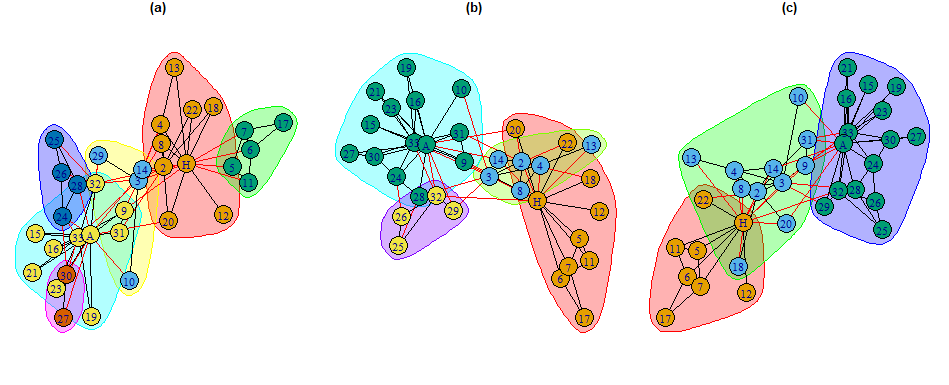
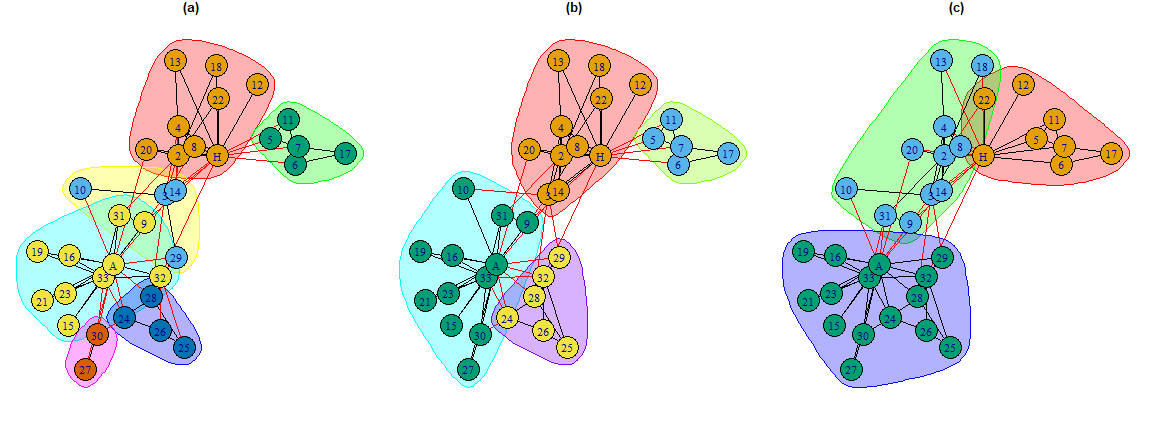
working paper

diff --git a/utils/joss_paper/paper.md b/utils/joss_paper/paper.md
@@ -1,5 +1,5 @@
 ---
-title: 'ig.degree.betweenness: A Community Detection Algorithm Leveraging Degree Centrality'
+title: 'ig.degree.betweenness: An R Package for Community Detection Using Degree Centrality and Betweenness'
 author: "Benjamin Smith"
 tags:
   - R
@@ -21,7 +21,7 @@ affiliations:
     index: 1
   - name: "UHN's Princess Margaret Cancer Centre"
     index: 2
-date: "2024-11-06"
+date: "2024-11-21"
 bibliography: paper.bib
 output:
   rticles::joss_article
@@ -36,29 +36,29 @@ journal: JOSS
 
 # Summary
 
-{ig.degree.betweenness} is an R package which enables users to implement the "Smith-Pittman" community detection algorithm on networks and sociograms constructed or loaded with the {igraph} package. {ig.degree.betweenness} also provides utility functions to enable neater plotting of densely connected networks and to provide relevant preparation for unlabeled graphs to accommodate its present implementation of the Smith-Pittman algorithm in the R programming language. Since this algorithm is relatively new, there presently does not exist other implementations of it which are ready to use and are compatible in the {igraph} ecosystem. As a result, this contribution is welcome by {igraph} users interested in exploring and applying the Smith-Pittman algorithm in social network analysis (SNA) settings.
+{ig.degree.betweenness} is an R package which enables users to implement the "Smith-Pittman" community detection algorithm on networks and sociograms constructed or loaded with the {igraph} package. {ig.degree.betweenness} also provides utility functions to enable neater plotting of densely connected networks, and to provide relevant preparation for unlabeled graphs to accommodate its present implementation of the Smith-Pittman algorithm in the R programming language. Since this algorithm is relatively new, there are presently not other implementations of it which are ready to use in the {igraph} ecosystem. As a result, this contribution is welcome by {igraph} users interested in exploring and applying the Smith-Pittman algorithm in social network analysis (SNA) settings.
 
 # Statement of Need
 
-{igraph} [@igraph_article] offers a suite functions and tools for interacting with graph data and engaging with SNA. A major area of study and application in SNA is the identification node clusters through methods broadly referred to as "community detection algorithms". There is no specific model which describes exactly what a ”community” is. Generally, community detection algorithms employ specific optimization strategies to partition a large-scale complex network into a set of disjoint and compact subgroups, often (but not always) without prior knowledge regarding the number of subgroups and their sizes [@rostami2023community].
+{igraph} [@igraph_article] offers a suite of functions and tools for interacting with graph data, and engaging with SNA. A major area of study and application in SNA is the identification node clusters through methods broadly referred to as "community detection algorithms." There is no specific model which describes exactly what a ”community” is. Generally, community detection algorithms employ specific optimization strategies to partition a large-scale complex network into a set of disjoint and compact subgroups, often (but not always) without prior knowledge regarding the number of subgroups and their sizes [@rostami2023community].
 
-{igraph} supports a range of popular community detection algorithms, including Girvan-Newman^[https://r.igraph.org/reference/cluster_edge_betweenness.html] [@Girvan_Newman_2002], Louvain^[https://r.igraph.org/reference/cluster_louvain.html] [@louvain_paper] and others^[For the full list of available community detection algorithms in the {igraph} R package, see the {igraph} reference manual: https://r.igraph.org/reference/index.html#community-detection]. For densely connected, complex networks, research by Smith, Pittman and Xu [@sp_paper] that combining node degree (degree centrality) with with edge-betweeness (as utilized by [@Girvan_Newman_2002]) can enhance cluster identification in certain contexts. The {ig.degree.betweenness} package offers {igraph} users a ready-to-use implementation of the Smith-Pittman community detection algorithm in R [@base2022].
+{igraph} supports a range of popular community detection algorithms, including Girvan-Newman^[https://r.igraph.org/reference/cluster_edge_betweenness.html] [@Girvan_Newman_2002], Louvain^[https://r.igraph.org/reference/cluster_louvain.html] [@louvain_paper] and others^[For the full list of available community detection algorithms in the {igraph} R package, see the {igraph} reference manual: https://r.igraph.org/reference/index.html#community-detection]. For densely connected, complex networks, research by Smith, Pittman and Xu [@sp_paper] that combines node degree (degree centrality) with edge-betweeness (as utilized by [@Girvan_Newman_2002]) can enhance cluster identification in certain contexts. The {ig.degree.betweenness} package offers {igraph} users a ready-to-use implementation of the Smith-Pittman community detection algorithm in R [@base2022].
 
 # The Smith-Pittman Algorithm
 
-The "Smith-Pittman" algorithm is a variation of the Girvan-Newman algorithm which first considers degree centrality (i.e., the number of connections possessed by each node in a given network) at the beginning of each iteration before examining the network edges' betweenness (i.e., the frequency with which an edge lies on the shortest paths between pairs of nodes, indicating its role in connecting different parts of the network).
+The "Smith-Pittman" algorithm is a variation of the Girvan-Newman algorithm, which first considers degree centrality (i.e. the number of connections possessed by each node in a given network) at the beginning of each iteration. It then examines network-wide edge betweenness (i.e. the frequency with which an edge lies on the shortest paths between pairs of nodes, indicating its role in connecting different parts of the network).
 
 The steps for the algorithm are: 
 
 1. Identify the node with the highest degree-centrality in the network. 
 
-2. Select the subgraph of the node with the highest degree centrality. Remove the edge possessing the highest calculated (network-wide) edge-betweenness in the subgraph.
+2. Select the subgraph of the node with the highest degree centrality. Remove the edge possessing the highest calculated (network-wide) edge betweenness in the subgraph.
 
-3. Recalculate the degree centrality for all nodes in the network and the betweenness for the remaining edge in the network,
+3. Recalculate the degree centrality for all nodes in the network, and the betweenness for the remaining edges in the network,
 
 4. Repeat from step 2. 
 
-Conceptually, this algorithm (similar to Girvan-Newman and Louvain) can be specified to terminate once a pre-determined number of communities has been identified (based on the remaining connected nodes). However, the intention for using this algorithm is meant to be used in an unsupervised, modularity maximizing setting, where the grouping of nodes is decided on the strength of the connected clusters -a.k.a. modularity^[For a more formal definition of modularity, see: https://en.wikipedia.org/wiki/Modularity_(networks)]. Figure 1 provides a detailed overview of how the algorithm works.
+Conceptually, this algorithm (similar to Girvan-Newman and Louvain) can be specified to terminate once a pre-determined number of communities has been identified, based on the remaining connected nodes. However, the intention for using this algorithm is meant to be used in an unsupervised, modularity maximizing setting, where the grouping of nodes is decided on the strength of the connected clusters -a.k.a. modularity^[For a more formal definition of modularity, see: https://en.wikipedia.org/wiki/Modularity_(networks)]. Figure 1 provides a detailed overview of how the algorithm works.
 
 ![A detailed overview of how the Smith-Pittman Algorithm works](./images/sp_viz2.png)
 
@@ -67,9 +67,9 @@ Conceptually, this algorithm (similar to Girvan-Newman and Louvain) can be speci
 
 ## Zachary's Karate Club Network
 
-The dataset commonly referred to as "Zachary's karate club network" [@zachary1977information] is a social network between members of a university club led by president John A. and karate instructor Mr. Hi (pseudonyms). At the beginning of the study there was an initial conflict between the club president, John A., and Mr. Hi over the price of karate lessons. As time passed, the entire club became divided over this issue. After a series of increasingly sharp factional confrontations over the price of lessons, the officers of the club, led by John A., fired Mr. Hi. The supporters of Mr. Hi retaliated by resigning and forming a new organization headed by Mr. Hi. Figure 2 shows the karate club network where the nodes signify individuals in the club and the edges signifies the existence of a relationship between two members. The node color indicates which group the members associated with post-split. 
+The dataset commonly referred to as "Zachary's karate club network" [@zachary1977information] is a social network between members of a university club led by president John A. and karate instructor Mr. Hi (pseudonyms). At the beginning of the study there was an initial conflict between the club president, John A., and Mr. Hi over the price of karate lessons. As time passed, the entire club became divided over this issue. After a series of increasingly sharp factional confrontations over the price of lessons, the officers of the club, led by John A., fired Mr. Hi. The supporters of Mr. Hi retaliated by resigning and forming a new organization headed by Mr. Hi. Figure 2 shows the karate club network where the nodes signify individuals in the club, and the edges signifies the existence of a relationship between two members. The node color indicates which group the members associated with post-split. 
 
-Since the division of the club and its members is known, this social network is a classic example dataset used and studied. The data is available in the {igraphdata} package [@igraphdatapackage]. In the context of community detection, the object of interest is seeing if the split could be identified based on the relationships between members. When applied in an unsupervised setting, the Girvan-Newman and Louvain algorthims identify communities of nodes which optimize modularity according to their approaches. However, the communities identified do not appear to identify a possible division in the group which is contextually informative or interpretative. The Smith-Pittman algorithm identifies 3 communities which could can be understood as individuals who would certainly associate with John A. or Mr. Hi and an uncertain group. Figure 3 shows the comparison between the three algorithms. 
+Since the division of the club and its members is known, this social network is a classic example dataset used and studied. The data is available in the {igraphdata} package [@igraphdatapackage]. In the context of community detection, the object of interest is seeing if the split could be identified based on the relationships between members. When applied in an unsupervised setting, the Girvan-Newman and Louvain algorthims identify communities of nodes which optimize modularity according to their approaches. However, the communities identified do not appear to identify a possible division in the group which is contextually informative or interpretative. The Smith-Pittman algorithm identifies 3 communities - which could can be understood as individuals who would certainly associate with John A. or Mr. Hi and an uncertain group. Figure 3 shows the comparison between the three algorithms. 
 
 The code for reproducing figures 2 and 3 are: 
 
@@ -77,15 +77,20 @@ The code for reproducing figures 2 and 3 are:
 ```r
 # Install relevant packages
 # install.packages(c("igraph","igraphdata","ig.degree.betweenness"))
+library(igraph)
 library(igraphdata)
+library(ig.degree.betweenness)
 # Attach the Karate Club dataset
 # Data from {igraphdata}
 data("karate")
+# Define layout- for visual purposes
+layout_plot <- layout_nicely(karate, dim = 2)
+
 # Plot the initial network (Figure 1)
-plot(karate)
+plot(karate,layout = layout_plot)
 # Girvan-Newman Clustering (Figure 2 (a))
 # Function from {igraph}
-gn_karate <- ig.degree.betweeness::cluster_edge_betweenness(karate)
+gn_karate <- igraph::cluster_edge_betweenness(karate)
 
 # Louvain Clustering (Figure 2 (b))
 # Function from {igraph}
@@ -93,29 +98,28 @@ louvain_karate <- igraph::cluster_louvain(karate)
 
 # Smith-Pittman Clustering (Figure 2 (c))
 # Function from {ig.degree.betweenness}
-sp_karate <- igraph::cluster_degree_betweenness(karate)
+sp_karate <- ig.degree.betweenness::cluster_degree_betweenness(karate)
 
 # Plot 3 plots next to eachother
 par(mfrow= c(1,3),mar=c(0,0,0,0)+1)
+plot(gn_karate, karate, main = "(a)", layout = layout_plot)
 
-plot(gn_karate, karate, main = "(a)")
+plot(louvain_karate, karate, main = "(b)", layout = layout_plot)
 
-plot(louvain_karate, karate, main = "(b)")
-
-plot(sp_karate, karate, main = "(c)")
+plot(sp_karate, karate, main = "(c)", layout = layout_plot)
 ```
 
-![The Zachary karate club network with the true split between members defined by node colors. John A. and Mr. Hi are denoted by 'J' and 'H', with other members being listed as numbers](./images/karate_network.png){width=70%}
+![The Zachary karate club network with the true split between members defined by node colors. John A. and Mr. Hi are denoted by 'J' and 'H' with other members being listed as numbers](./images/karate_network.png){width=70%}
 
 ![Unsupervised Community Detection by (a) Girvan-Newman, (b) Louvain and (c) Smith-Pittman for the karate network.](./images/algorithm_comparison_karate.png)
 
 ## TidyTuesday - "Monster Movies" Dataset
 
-The "Monster Movies" dataset, made available by the TidyTuesday project [@Rfordatascience] presents an interesting example for applying SNA and the Smith-Pitman algorithm to interaction between genres in "monster" titled movies. Figure 4 shows the plotted "simplified" network with node sizes corresponding to node degree (i.e. the number of connections a given genre shares with other genres) and edge thickness and annotated numbers corresponding to the number of edges shared between listed genres. Figure 5 shows the genre clusters in the network as preformed by Girvan-Newman, Louvain and Smith-Pittman.
+The "Monster Movies" dataset, made available by the TidyTuesday project [@Rfordatascience] presents an interesting example for applying SNA and the Smith-Pitman algorithm to interaction between genres in "monster" titled movies. Figure 4 shows the plotted simplified network with node sizes corresponding to node degree (i.e. the number of connections a given genre shares with other genres), edge thickness and annotated numbers corresponding to the number of edges shared between listed genres. Figure 5 shows the genre clusters in the network as preformed by Girvan-Newman, Louvain and Smith-Pittman.
 
-Girvan Newman doesn't tell any story (clustering everything in one group isn't much of a story). Louvain might be telling us something in terms of strength of clustering but doesn't necessarily speak about the reality of "monster" movie genre interactions. Smith-Pittman clustering tells the best story with popular genres forming the primary working group followed by more ambivalent smaller subgroups and outlier nodes.
+Application of the Girvan-Newman algorithm does not yield informative community detection (clustering everything in one group is not much of a story). Louvain might be telling us something in terms of the strength of clustering, but does not necessarily speak about the reality of "monster" movie genre interactions. Smith-Pittman clustering tells the best story. Popular genres form the primary working group, followed by more ambivalent smaller subgroups, and outlier nodes.
 
-The R code for doing this is the following:
+The R code for showing this follows:
 
 
 ```r
@@ -211,13 +215,12 @@ ig.degree.betweenness::plot_simplified_edgeplot(
 )
 ```
 
-![Monster movie genre network. Node size corresponds to the node degree and edge thickness and numbers corespond the number of connections shared between generes in "monster" titled movies.](./images/tt_1.png)
+![Monster movie genre network. Node size corresponds to the node degree. Edge thickness corresponds to the number of connections shared between generes in "monster" titled movies.](./images/tt_1.png)
 
 ![Communities identified in the monster movie genre network via community detection. (a) is Girvan-Newman, (b) is Louvain and (c) is Smith-Pittman. Communities are selected based on maximized modularity.](./images/tt_2.png)
 
 # Licensing and Availability
 
-{ig.degree.betweenness} is licensed under a MIT lisence. It is available on CRAN, and can be installed using `install.packages("ig.degree.betweenness")`.  All code is open-source and hosted on 
-GitHub, and bugs can be reported at https://github.com/benyamindsmith/ig.degree.betweenness/issues/.
+{ig.degree.betweenness} is licensed under a MIT lisence. It is available on CRAN, and can be installed using `install.packages("ig.degree.betweenness")`.  All code is open-source and hosted on GitHub, and bugs can be reported at https://github.com/benyamindsmith/ig.degree.betweenness/issues/.
 
 # References
